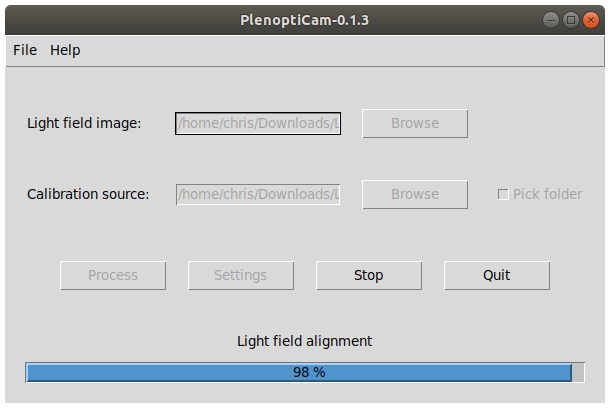
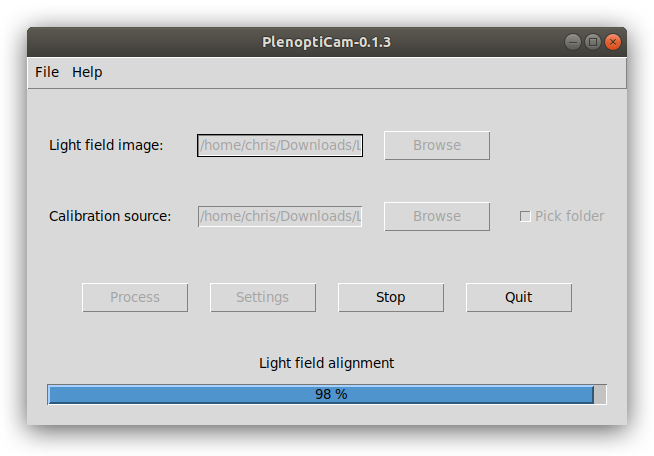
style(gui): use brighter color bar

diff --git a/README.rst b/README.rst
@@ -40,7 +40,7 @@ Application
 .. |gui| raw:: html
 
     <p align="center">
-        <img src="https://raw.githubusercontent.com/hahnec/plenopticam/develop/docs/img/gui_ubuntu.png" width="66%">
+        <img src="https://raw.githubusercontent.com/hahnec/plenopticam/develop/docs/img/gui_linux.png" width="66%">
     <p>
 
 .. note::
